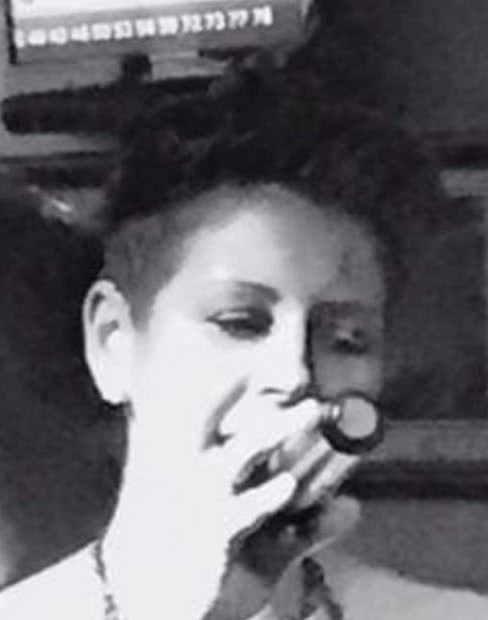
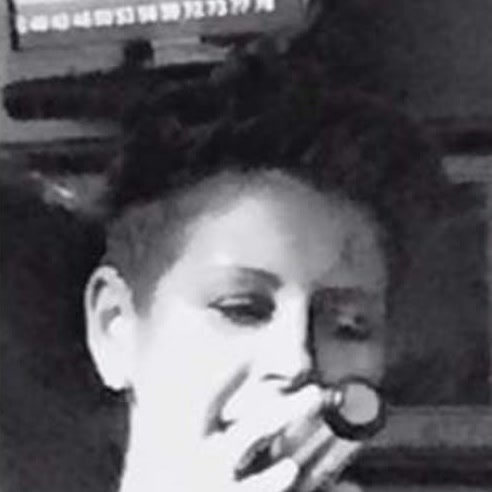
Center portrait headshots, extend mobile menu full height, and remove sticky bottom bar

diff --git a/demov1/styles/main.css b/demov1/styles/main.css
@@ -74,7 +74,7 @@ img {
 .band-nav-bar {
   position: sticky;
   top: 0;
-  z-index: 900;
+  z-index: 1200;
   display: grid;
   grid-template-columns: 1fr auto 1fr;
   align-items: center;
@@ -184,21 +184,21 @@ img {
    SLIDE-DOWN / OVERLAY MENU (100% Solid Opaque, Tech-Illiterate Friendly)
    ========================================================================== */
 .dropdown-menu-overlay {
-  position: absolute;
-  top: 100%;
+  position: fixed;
+  top: var(--nav-height, 64px);
   left: 0;
   right: 0;
+  bottom: 0;
   background-color: var(--dropdown-bg, #11141c) !important;
   background-image: none !important;
   backdrop-filter: none !important;
   -webkit-backdrop-filter: none !important;
   border-top: 1px solid rgba(255, 255, 255, 0.12);
-  border-bottom: 4px solid var(--accent-color, #e63946);
   box-shadow: 0 24px 50px rgba(0, 0, 0, 0.95);
-  z-index: 9999;
-  padding: 1.25rem 1.5rem 2rem 1.5rem;
-  max-height: calc(100vh - 64px);
+  z-index: 1190;
+  padding: 1.25rem 1.5rem calc(2.5rem + env(safe-area-inset-bottom, 0px)) 1.5rem;
   overflow-y: auto;
+  -webkit-overflow-scrolling: touch;
   display: none;
 }
 
@@ -994,7 +994,7 @@ img {
 
 .member-portrait-wrap {
   width: 100%;
-  height: 250px;
+  aspect-ratio: 1 / 1;
   overflow: hidden;
   background: #0d1017;
   border-bottom: 2px solid var(--card-border, #252b3b);
@@ -1004,7 +1004,7 @@ img {
   width: 100%;
   height: 100%;
   object-fit: cover;
-  object-position: center top;
+  object-position: center center;
   display: block;
 }
 
@@ -1250,7 +1250,7 @@ img {
   height: 82px;
   border-radius: 50%;
   object-fit: cover;
-  object-position: center top;
+  object-position: center center;
   border: 3px solid #60a5fa;
   flex-shrink: 0;
 }
@@ -1472,12 +1472,12 @@ img {
 }
 
 /* ==========================================================================
-   FOOTER & MOBILE STICKY BOTTOM BAR
+   FOOTER
    ========================================================================== */
 .band-site-footer {
   background: #07080b;
   border-top: 1px solid rgba(255, 255, 255, 0.1);
-  padding: 2.5rem 1.25rem 5.5rem 1.25rem;
+  padding: 2.5rem 1.25rem;
   text-align: center;
 }
 
@@ -1513,55 +1513,33 @@ img {
   text-decoration: underline;
 }
 
-/* Sticky Mobile Action Bar */
-.mobile-sticky-bottom-bar {
-  display: none;
-  position: fixed;
-  bottom: 0;
-  left: 0;
-  right: 0;
-  background: #0f1218;
-  border-top: 2px solid #282f40;
-  padding: 0.55rem 0.75rem;
-  z-index: 850;
-  box-shadow: 0 -4px 18px rgba(0, 0, 0, 0.75);
-}
-
-.bottom-actions-row {
-  display: flex;
-  align-items: center;
-  justify-content: space-between;
-  gap: 0.45rem;
-}
-
-.bottom-action-btn {
-  flex: 1;
-  text-align: center;
-  padding: 0.55rem 0.4rem;
-  border-radius: var(--radius-pill);
-  font-size: 0.84rem;
-  font-weight: 800;
-  text-decoration: none;
-  color: #ffffff;
-  display: inline-flex;
-  align-items: center;
-  justify-content: center;
-  gap: 0.25rem;
-  white-space: nowrap;
-}
-
-.bottom-call-btn { background: #22c55e; color: #052e16; }
-.bottom-sms-btn { background: #16a34a; color: #ffffff; }
-.bottom-shows-btn { background: var(--accent-color, #e63946); color: var(--accent-contrast, #ffffff); }
-.bottom-listen-btn { background: #2563eb; color: #ffffff; }
-
 @media (max-width: 768px) {
-  .mobile-sticky-bottom-bar {
-    display: block;
-  }
   .band-nav-bar {
     padding: 0.45rem 0.65rem;
     gap: 0.4rem;
+  }
+  .dropdown-menu-overlay {
+    padding: 1rem 1rem calc(3rem + env(safe-area-inset-bottom, 0px)) 1rem;
+  }
+  .member-card {
+    padding-top: 1.35rem;
+  }
+  .member-portrait-wrap {
+    width: 220px;
+    height: 220px;
+    margin: 0 auto;
+    border-radius: var(--radius-lg);
+    border: 2px solid var(--card-border, #252b3b);
+    box-shadow: var(--shadow-sm);
+  }
+  .member-card.bob-highlight .member-portrait-wrap {
+    border-color: var(--bob-card-border, #2563eb);
+  }
+  .member-body {
+    text-align: center;
+  }
+  .member-bio {
+    text-align: left;
   }
   .nav-schedule-btn {
     padding: 0.42rem 0.7rem;
@@ -1596,12 +1574,6 @@ img {
   }
   .bob-direct-actions {
     justify-content: center;
-  }
-}
-
-@media (min-width: 769px) {
-  .band-site-footer {
-    padding-bottom: 2.5rem;
   }
 }
 

diff --git a/demov1/scripts/app.js b/demov1/scripts/app.js
@@ -71,16 +71,25 @@ function decodeProtectedContacts() {
    2. NAVIGATION, SLIDE-DOWN MENU, TEXT SCALER & MODULAR THEME SWITCHER
    ========================================================================== */
 function initNavigationAndControls() {
+  const navBar = document.getElementById('bandTopBar');
   const menuBtn = document.getElementById('bandMenuToggleBtn');
   const menuOverlay = document.getElementById('dropdownMenuOverlay');
   const closeBtn = document.getElementById('menuCloseBtn');
   const scheduleBtn = document.getElementById('navScheduleBtn');
 
+  function syncNavHeight() {
+    if (!navBar) return;
+    const rect = navBar.getBoundingClientRect();
+    document.documentElement.style.setProperty('--nav-height', `${Math.max(44, Math.round(rect.bottom))}px`);
+  }
+
   function openMenu() {
     if (!menuOverlay || !menuBtn) return;
+    syncNavHeight();
     menuOverlay.classList.add('is-open');
     menuBtn.classList.add('active');
     menuBtn.setAttribute('aria-expanded', 'true');
+    document.body.style.overflow = 'hidden';
   }
 
   function closeMenu() {
@@ -88,7 +97,12 @@ function initNavigationAndControls() {
     menuOverlay.classList.remove('is-open');
     menuBtn.classList.remove('active');
     menuBtn.setAttribute('aria-expanded', 'false');
+    document.body.style.overflow = '';
   }
+
+  window.addEventListener('resize', () => {
+    if (menuOverlay && menuOverlay.classList.contains('is-open')) syncNavHeight();
+  });
 
   if (menuBtn) {
     menuBtn.addEventListener('click', (e) => {
@@ -154,6 +168,7 @@ function initNavigationAndControls() {
     if (fontDec) fontDec.classList.toggle('active', textScale < 0.98);
     if (fontNorm) fontNorm.classList.toggle('active', Math.abs(textScale - 1) <= 0.02);
     if (fontInc) fontInc.classList.toggle('active', textScale > 1.02);
+    if (menuOverlay && menuOverlay.classList.contains('is-open')) syncNavHeight();
   }
 
   applyScale(textScale);

diff --git a/demov1/index.html b/demov1/index.html
@@ -631,26 +631,6 @@
     </div>
   </footer>
 
-  <!-- ======================================================================
-       MOBILE STICKY BOTTOM ACTION BAR (iPhone / Pixel / Samsung)
-       ====================================================================== -->
-  <div class="mobile-sticky-bottom-bar" id="mobileStickyBar">
-    <div class="bottom-actions-row">
-      <a href="#contact" data-cf-tel="5a6f6a6269686c6e6e6c6a" class="bottom-action-btn bottom-call-btn">
-        <span>📞 Call</span>
-      </a>
-      <a href="#contact" data-cf-sms="5a6f6a6269686c6e6e6c6a" class="bottom-action-btn bottom-sms-btn">
-        <span>💬 Text</span>
-      </a>
-      <a href="#shows" class="bottom-action-btn bottom-shows-btn">
-        <span>📅 Shows</span>
-      </a>
-      <a href="#music" class="bottom-action-btn bottom-listen-btn">
-        <span>🎵 Listen</span>
-      </a>
-    </div>
-  </div>
-
   <!-- Fullscreen Gallery Lightbox -->
   <div id="galleryLightbox" class="gallery-lightbox-backdrop" role="dialog" aria-modal="true" aria-label="Enlarged Photo">
     <div class="gallery-lightbox-content">

diff --git a/styles/main.css b/styles/main.css
@@ -713,8 +713,9 @@ body {
 }
 
 .mode-phone .dropdown-menu-overlay {
-  padding: 1rem;
-  max-height: 730px;
+  padding: 1rem 1rem 2.5rem 1rem;
+  min-height: 760px;
+  max-height: 765px;
   overflow-y: auto;
 }
 
